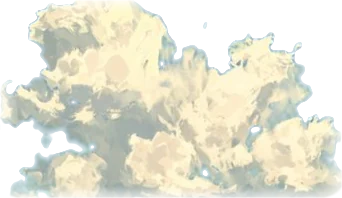
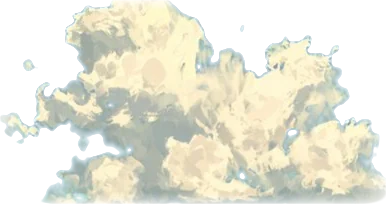
Sync profile README copy

diff --git a/github-profile-README.md b/github-profile-README.md
@@ -1,14 +1,14 @@
 <!-- LIVE at github.com/PeterVanPercson — the profile repo (PeterVanPercson/PeterVanPercson) is the
      source of truth now; this is a synced copy kept next to the site. Edit there, not here. -->
 
-Building **[defex](https://defex.app)** — self-teaching robots for manufacturing — from **[powell.st](https://powell.st)**, San Francisco. Founder of **[BuildCored](https://buildcored.com)** (1,500+ builders). Dropout of the UM–SJTU Joint Institute.
+Co-founder & CEO of **[defex](https://defexrobotics.com)** — self-teaching robots for manufacturing — from **[powell.st](https://powell.st)**, San Francisco. Co-founder of **[BuildCored](https://buildcored.com)** (1,500+ builders). Dropout of the UM–SJTU Joint Institute.
 
 ## What I'm Building
 
 | Since | Where | What | |
 |---|---|---|---|
-| May 2026 | **[defex](https://defex.app)** | Founder · self-teaching robots for manufacturing — assembly robots that practice, test the joint they just made, and reset for the next attempt. First workstation: connector assembly | San Francisco |
-| 2026 | **[BuildCored](https://buildcored.com)** | Founder · community of 1,500+ AI & hardware builders · funded by Uzbekistan's Youth Affairs Agency · home of Orcas | Shanghai · Tashkent |
+| May 2026 | **[defex](https://defexrobotics.com)** | Co-founder & CEO · self-teaching robots for manufacturing — assembly robots that practice, test the joint they just made, and reset for the next attempt. First workstation: connector assembly | San Francisco |
+| 2026 | **[BuildCored](https://buildcored.com)** | Co-founder · community of 1,500+ AI & hardware builders · funded by Uzbekistan's Youth Affairs Agency · home of Orcas | Shanghai · Tashkent |
 | 2026 | **[mindform](https://mindform-ai.com)** | Co-founder · the personality layer for AI — memory, tone, and character that persist across sessions · with [Nuo Chen](https://github.com/Reason-Wang) (NUS) | remote · Shanghai |
 | 2026 | **Silkroad Innovation Hub** | Fellow · backs defex | Menlo Park, CA |
 
@@ -34,7 +34,7 @@ Building **[defex](https://defex.app)** — self-teaching robots for manufacturi
 
 | Project | What it is |
 |---|---|
-| [defex-landing](https://github.com/PeterVanPercson/defex-landing) | defex.app — the site for self-teaching robots for manufacturing, Django on Vercel. Built with my twin [Hasan](https://github.com/hasan-mavlonov), defex CTO |
+| [defex-landing](https://github.com/PeterVanPercson/defex-landing) | defexrobotics.com — the site for self-teaching robots for manufacturing, Django on Vercel. Built with my twin [Hasan](https://github.com/hasan-mavlonov), defex CTO |
 | [husanmavlonov.com](https://github.com/PeterVanPercson/husanmavlonov.com) | Hand-built personal site. Halftone-cloud sky by day, cross-stitch orcas by night — the orcas are lifted from a real family embroidery |
 | [buildcored-orcas](https://github.com/PeterVanPercson/buildcored-orcas) | The Orcas challenge engine — 30 days, one real project a day, miss one and you're out |
 | [buildcored-orcas-site](https://github.com/PeterVanPercson/buildcored-orcas-site) | Orcas v1.5 landing + the 30-project showcase |
